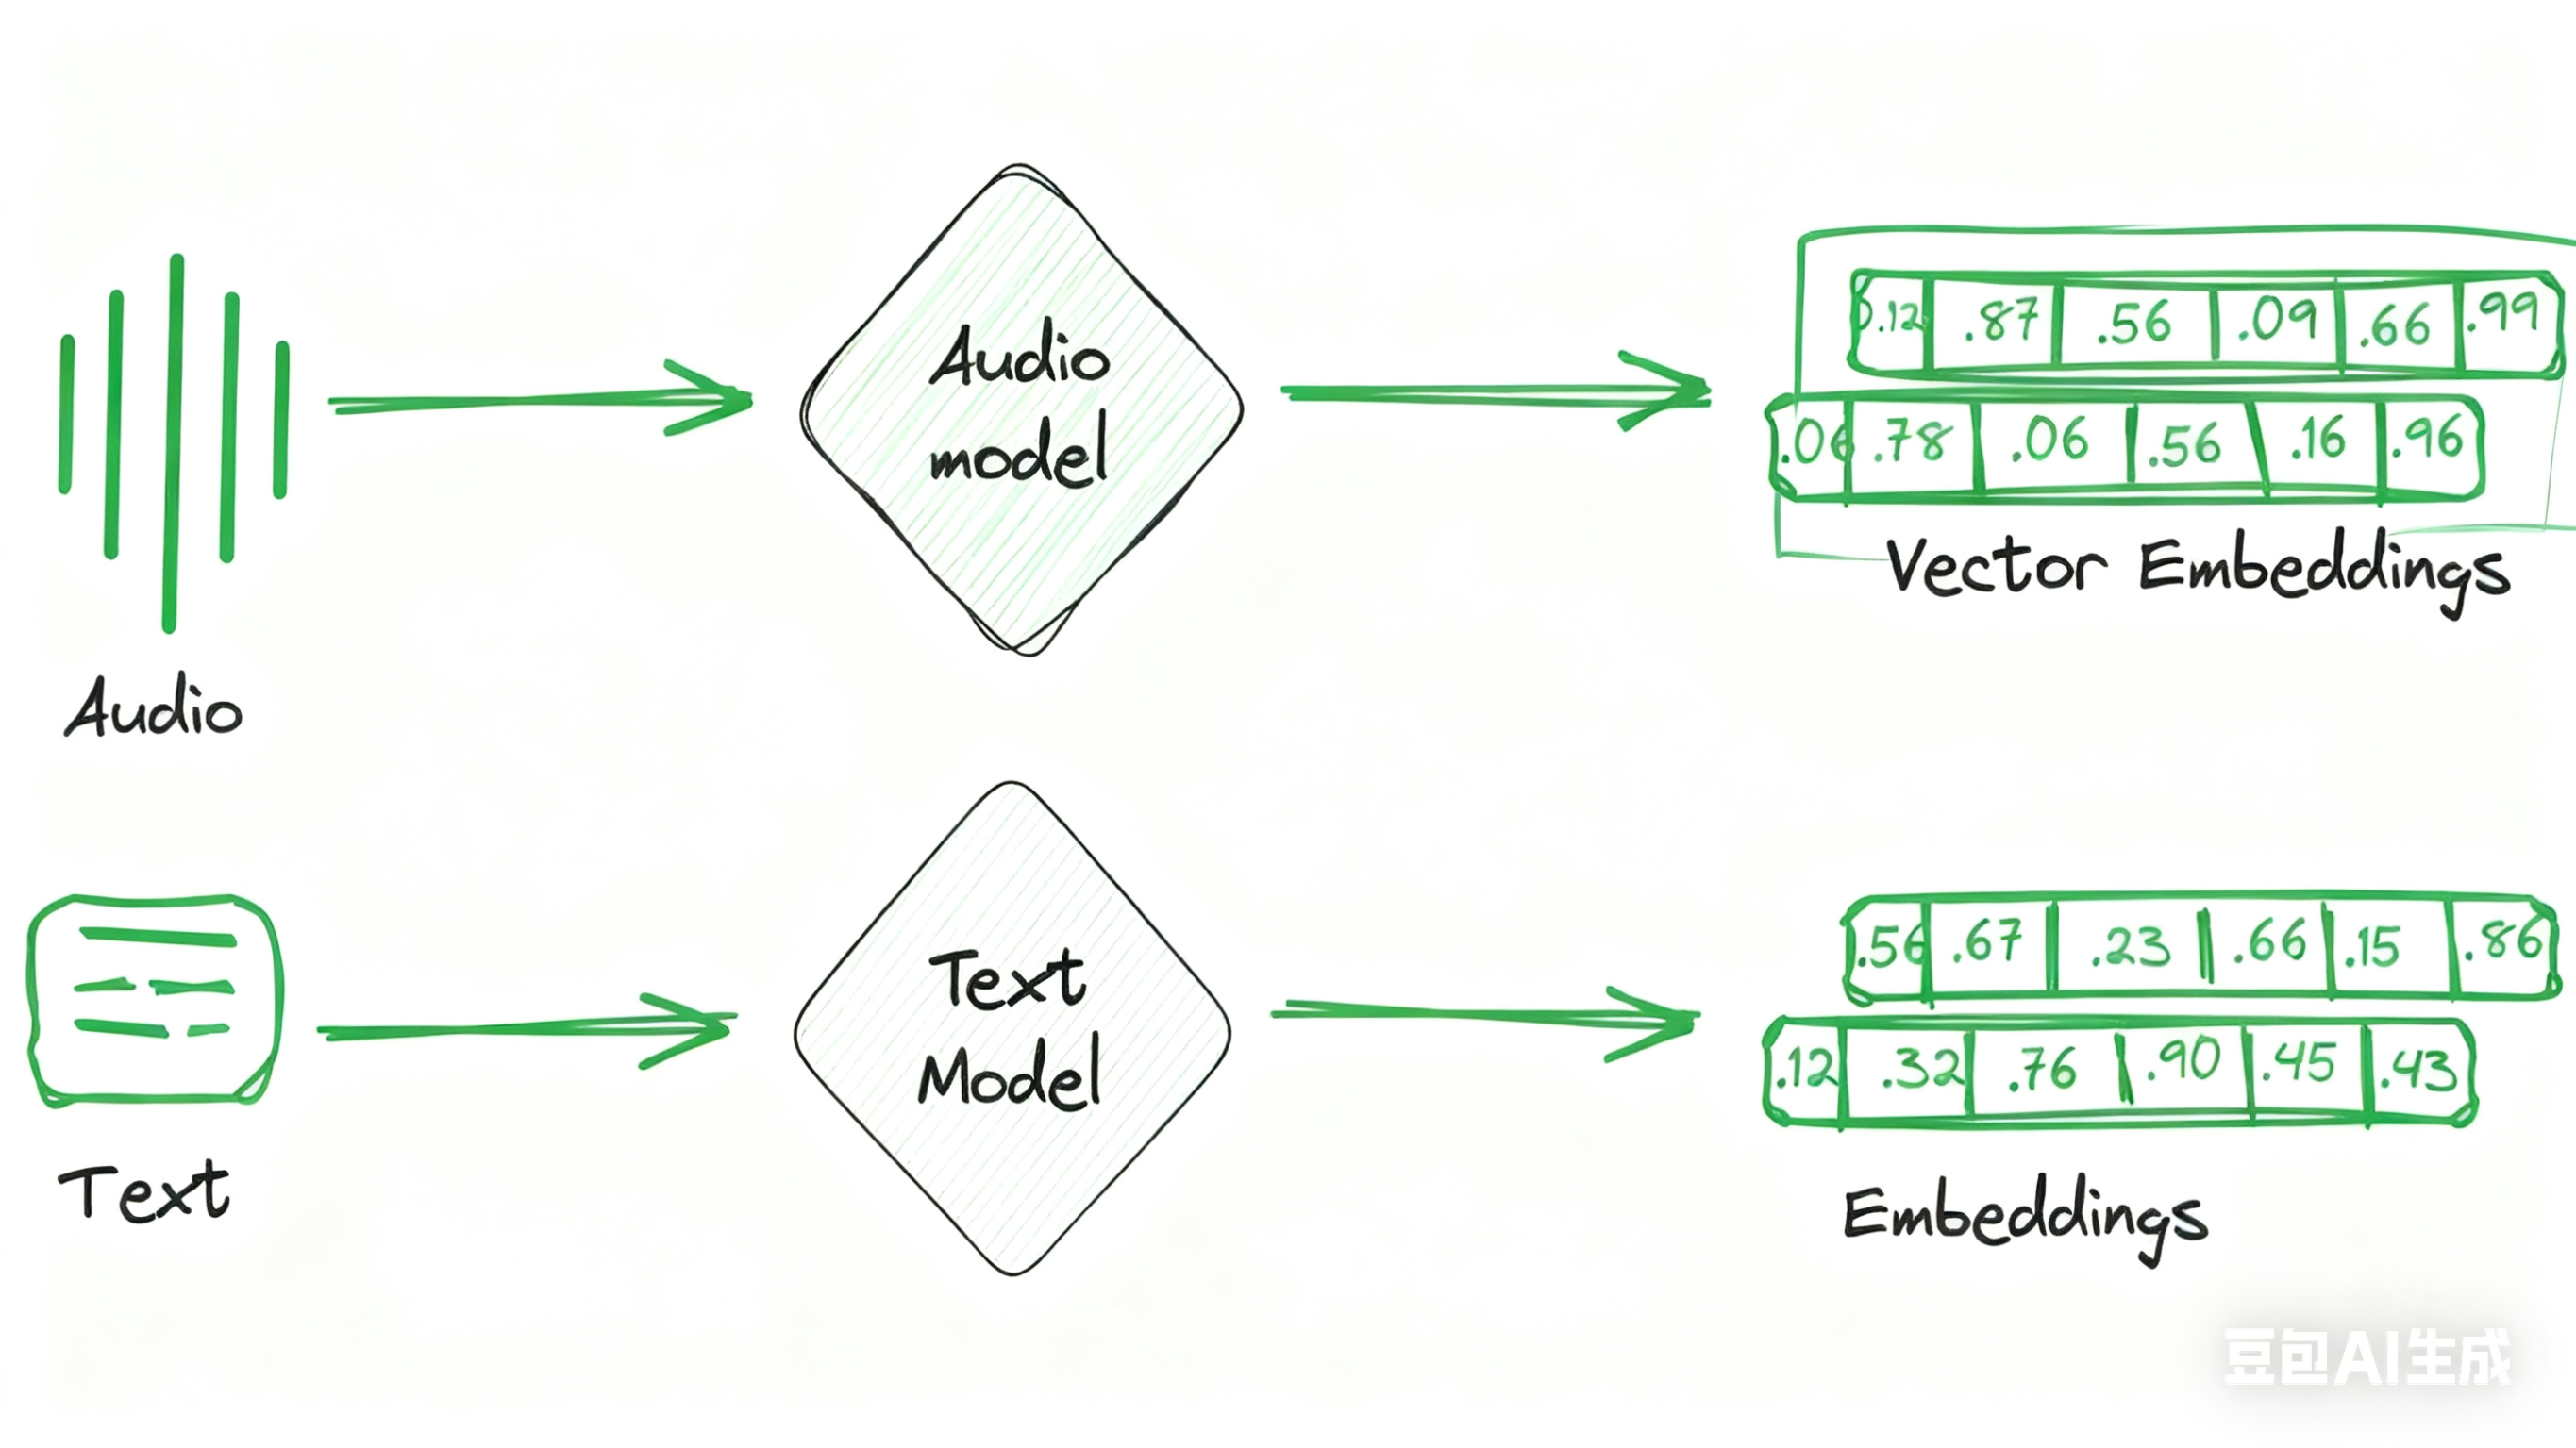
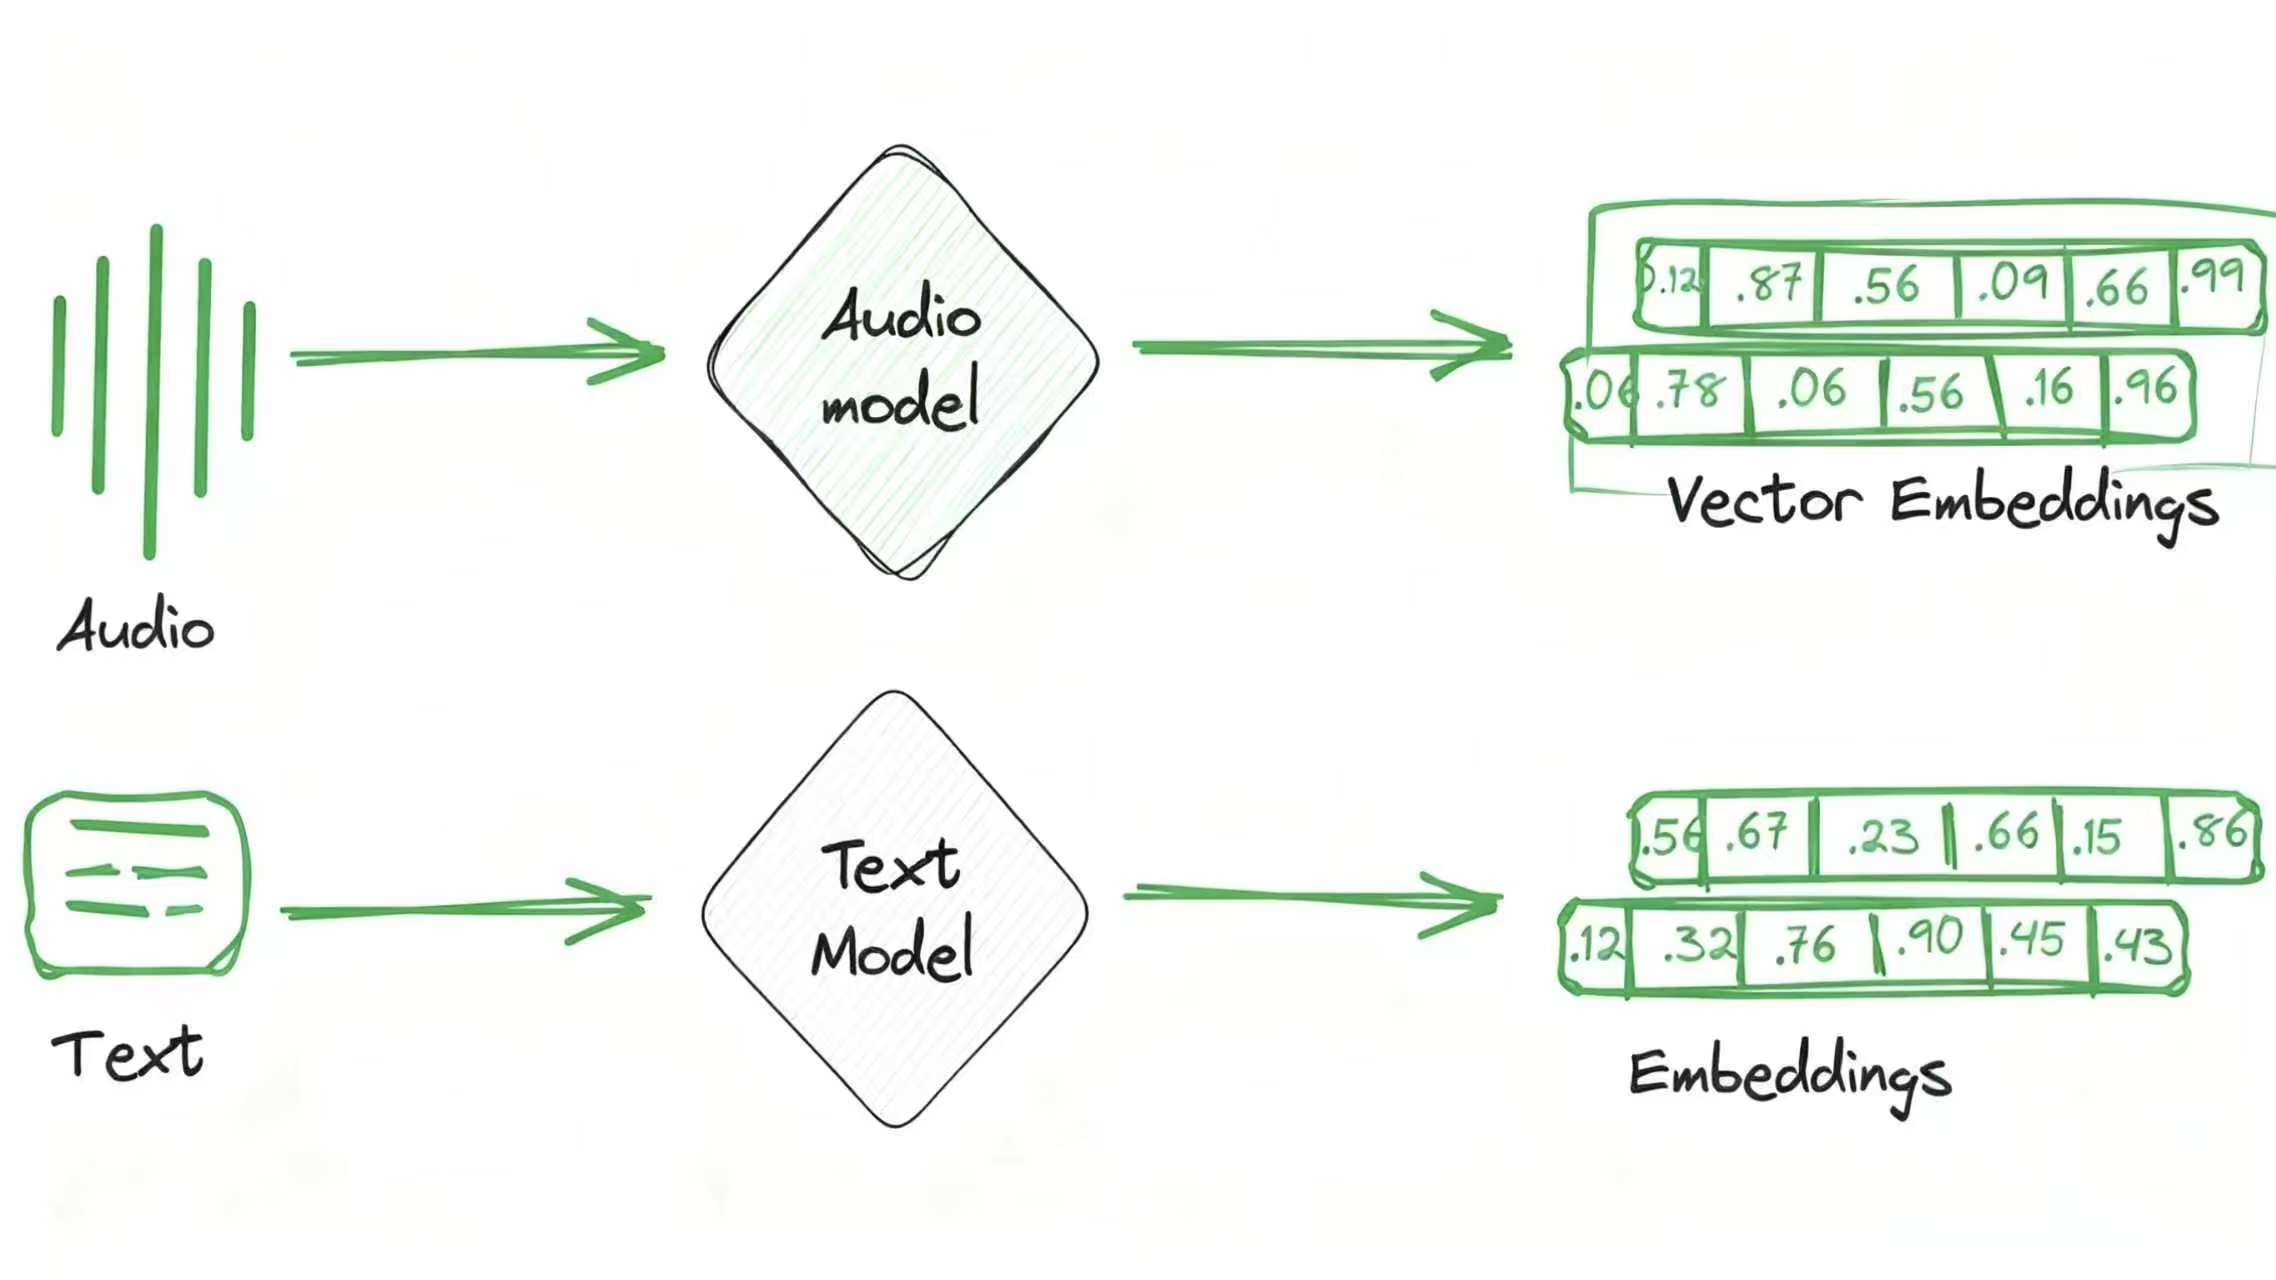
fix 图片水印和首部milvus介绍

diff --git a/docs/base/chapter1/项目介绍.md b/docs/base/chapter1/项目介绍.md
@@ -21,9 +21,7 @@
 
 ### 1.1 技术概览
 
-**向量数据库（Vector Database）** 是专为高维向量数据设计的新一代数据库系统。  
-它通过将文本、图像、音频等非结构化数据转化为数学向量，并基于相似性度量实现高效语义检索。  
-与传统关系型数据库的“精确匹配”不同，向量数据库通过 **嵌入模型（Embedding Model）** 将复杂的非结构化内容映射到高维向量空间中，再利用 **近似最近邻搜索（ANN, Approximate Nearest Neighbor）** 算法实现毫秒级相似度检索。
+**向量数据库（Vector Database）** 是专为高维向量设计的新一代数据库系统。 不同于传统数据库的“精确匹配”，它通过 **嵌入模型（Embedding Model）** 将文本、图像、音频等非结构化数据映射为高维向量，并利用**近似最近邻搜索（ANN）** 算法，实现海量数据下的毫秒级语义检索。
 
 ![alt text](/images/qianyan3.png)
 